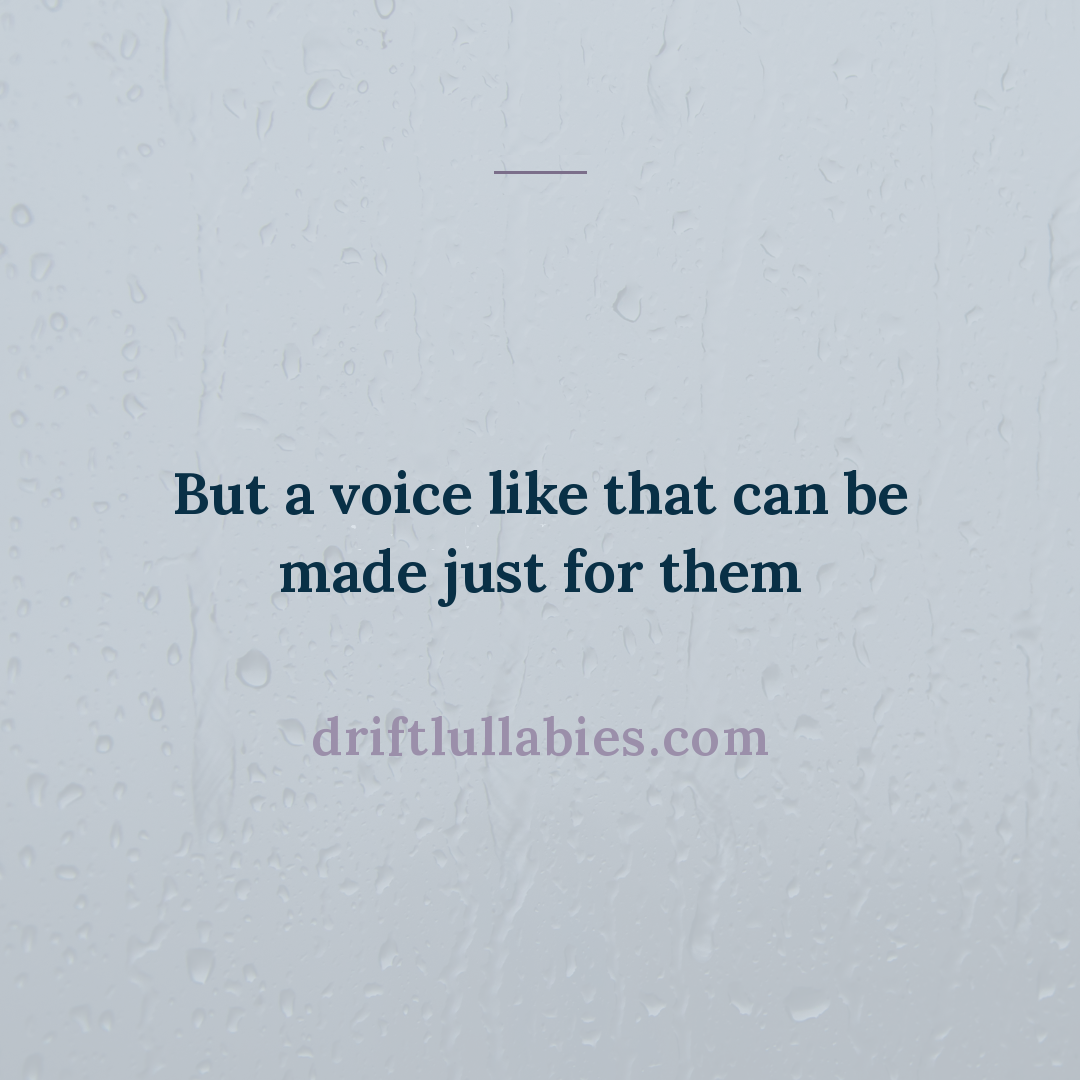
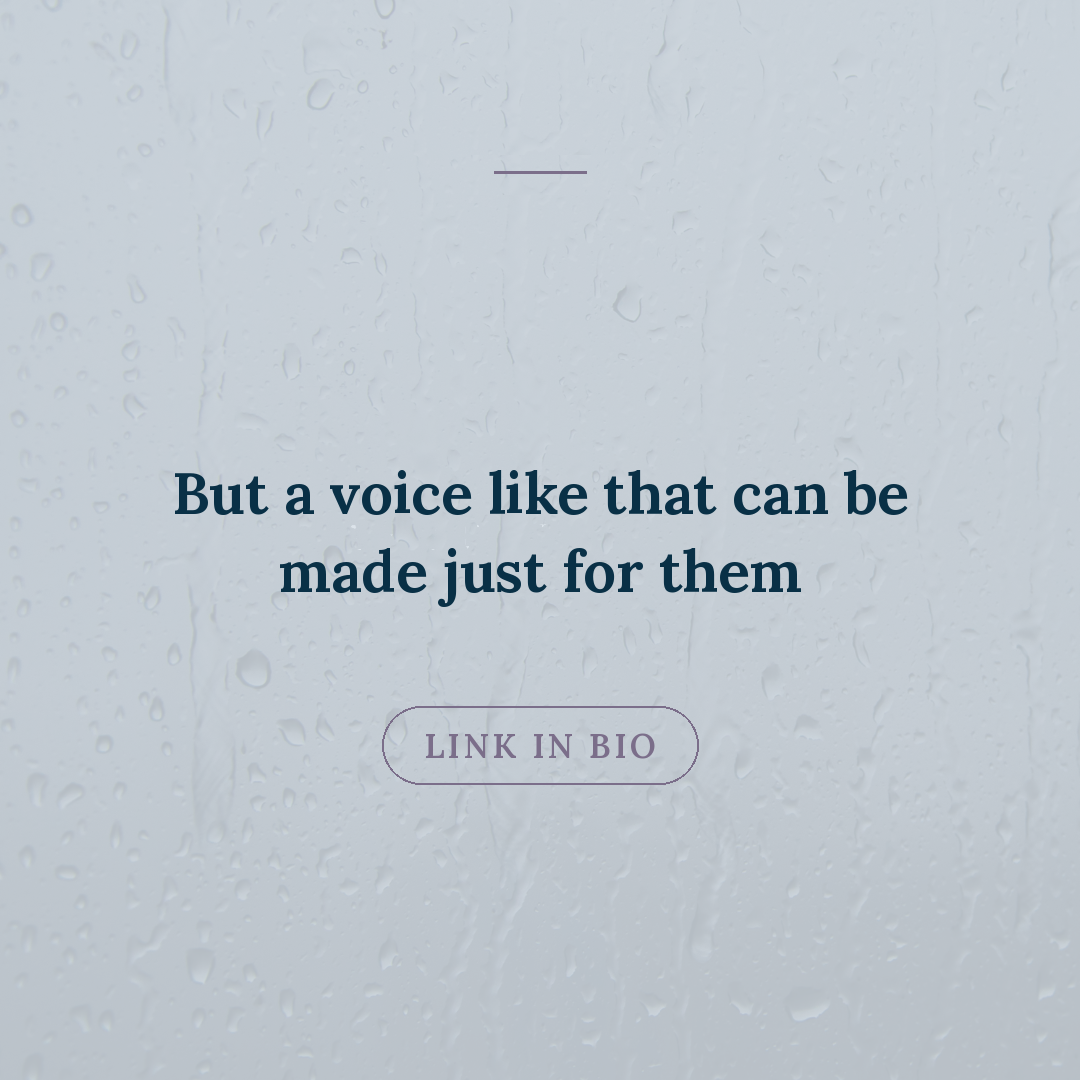
Week of 2026-09-07 — 21 posts

Changed region(s): [[0.275, 0.6417, 0.7333, 0.7028]]

diff --git a/posts/poetry-03-blanket-warmth/slides.md b/posts/poetry-03-blanket-warmth/slides.md
@@ -31,8 +31,13 @@ no terminal period, no eyebrow per the lane's current convention.
 ✅ **RE-RENDERED 2026-09-04 (Phase 2)** via `render_photo_cta(main="But a voice like that can be
 made just for them")`.
 
-⚠ **It rendered with the URL line `driftlullabies.com`, not the LINK IN BIO pill — flagged, not
-changed.** `render_photo_cta` has no pill path at all; it only draws a URL. That means the whole
+✅ **FIXED 2026-09-04 — it now renders the LINK IN BIO pill.** Ben: *"poetry lane should be the
+pill, not the driftlullabies.com that must be an error not an exception."* `render_photo_cta` had no
+pill path at all and now defaults to one. Poetry 02 (still queued for Sun Sep 6) was re-rendered
+too; Poetry 01 published Aug 27 and is left as it shipped.
+
+~~⚠ **It rendered with the URL line `driftlullabies.com`, not the LINK IN BIO pill — flagged, not
+changed.**~~ `render_photo_cta` has no pill path at all; it only draws a URL. That means the whole
 poetry lane diverges from [[drift-website-cta-locked]]'s current card (eyebrow + ask + pill), and
 this post's own caption says "link in bio" while its card says the URL.
 
